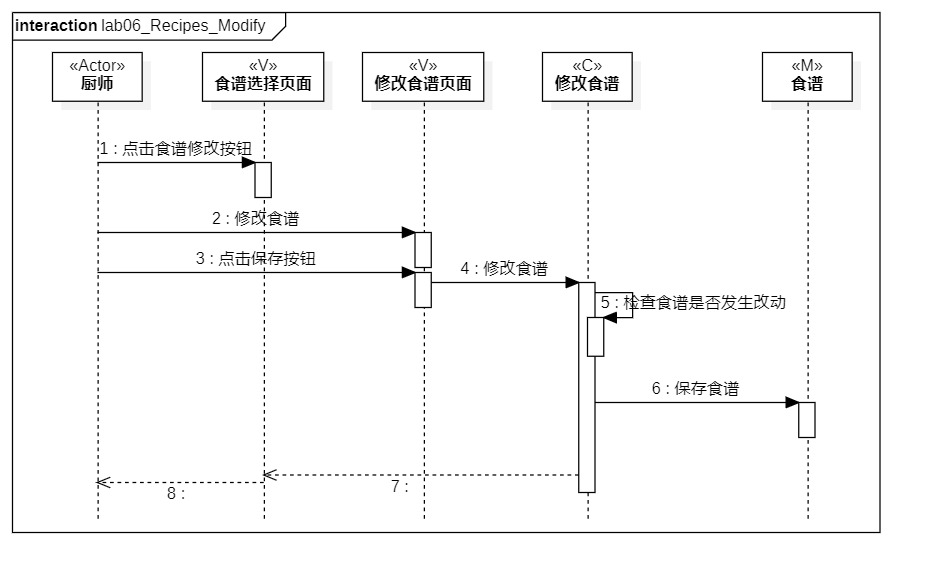
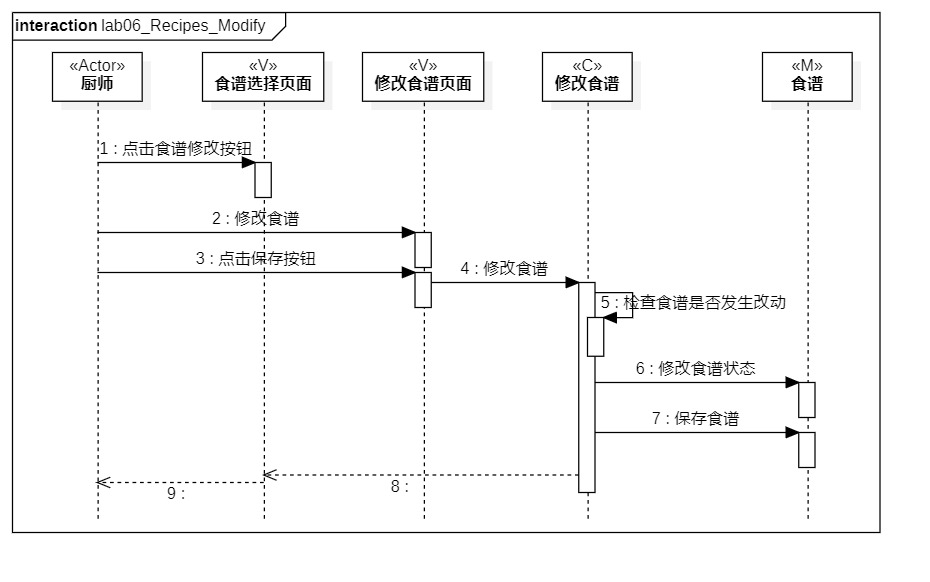
#2 #3 #6 #7 #463 “修改用例，用例图，顺序图”

Changed region(s): [[0.6548, 0.6186, 0.8731, 0.8041]]

diff --git a/students/1714080902202/lab02.md b/students/1714080902202/lab02.md
@@ -41,7 +41,7 @@
 基本流程  | 1. 厨师点击食谱录入按钮;  |
 ~| 2. 系统显示食谱录入页面;  |  
 ~| 3. 厨师录入食谱，点击录入按钮；  |   
-~| 4. 系统检查食谱是否存在; |   
+~| 4. 系统检查食谱是否重复; |   
 ~| 5. 系统保存食谱; |
 ~| 6. 系统提示“录入食谱成功”; |
 ~| 7. 系统显示食谱选择页面。  | 
@@ -56,7 +56,7 @@
 ~| 2. 系统显示食谱修改页面;  |  
 ~| 3. 厨师修改食谱，点击保存按钮；  |   
 ~| 4. 系统检查食谱是否发生改动;  |
-~| 5. 系统保存食谱; | 
+~| 5. 系统保存食谱，修改食谱状态; | 
 ~| 6. 系统提示“修改食谱成功”。 |
 ~| 7. 系统显示食谱选择页面。  | 
 扩展流程  | 4.1 系统检查发现食谱未发生改动，提示“食谱未发生改动，请重新录入食谱”; |
